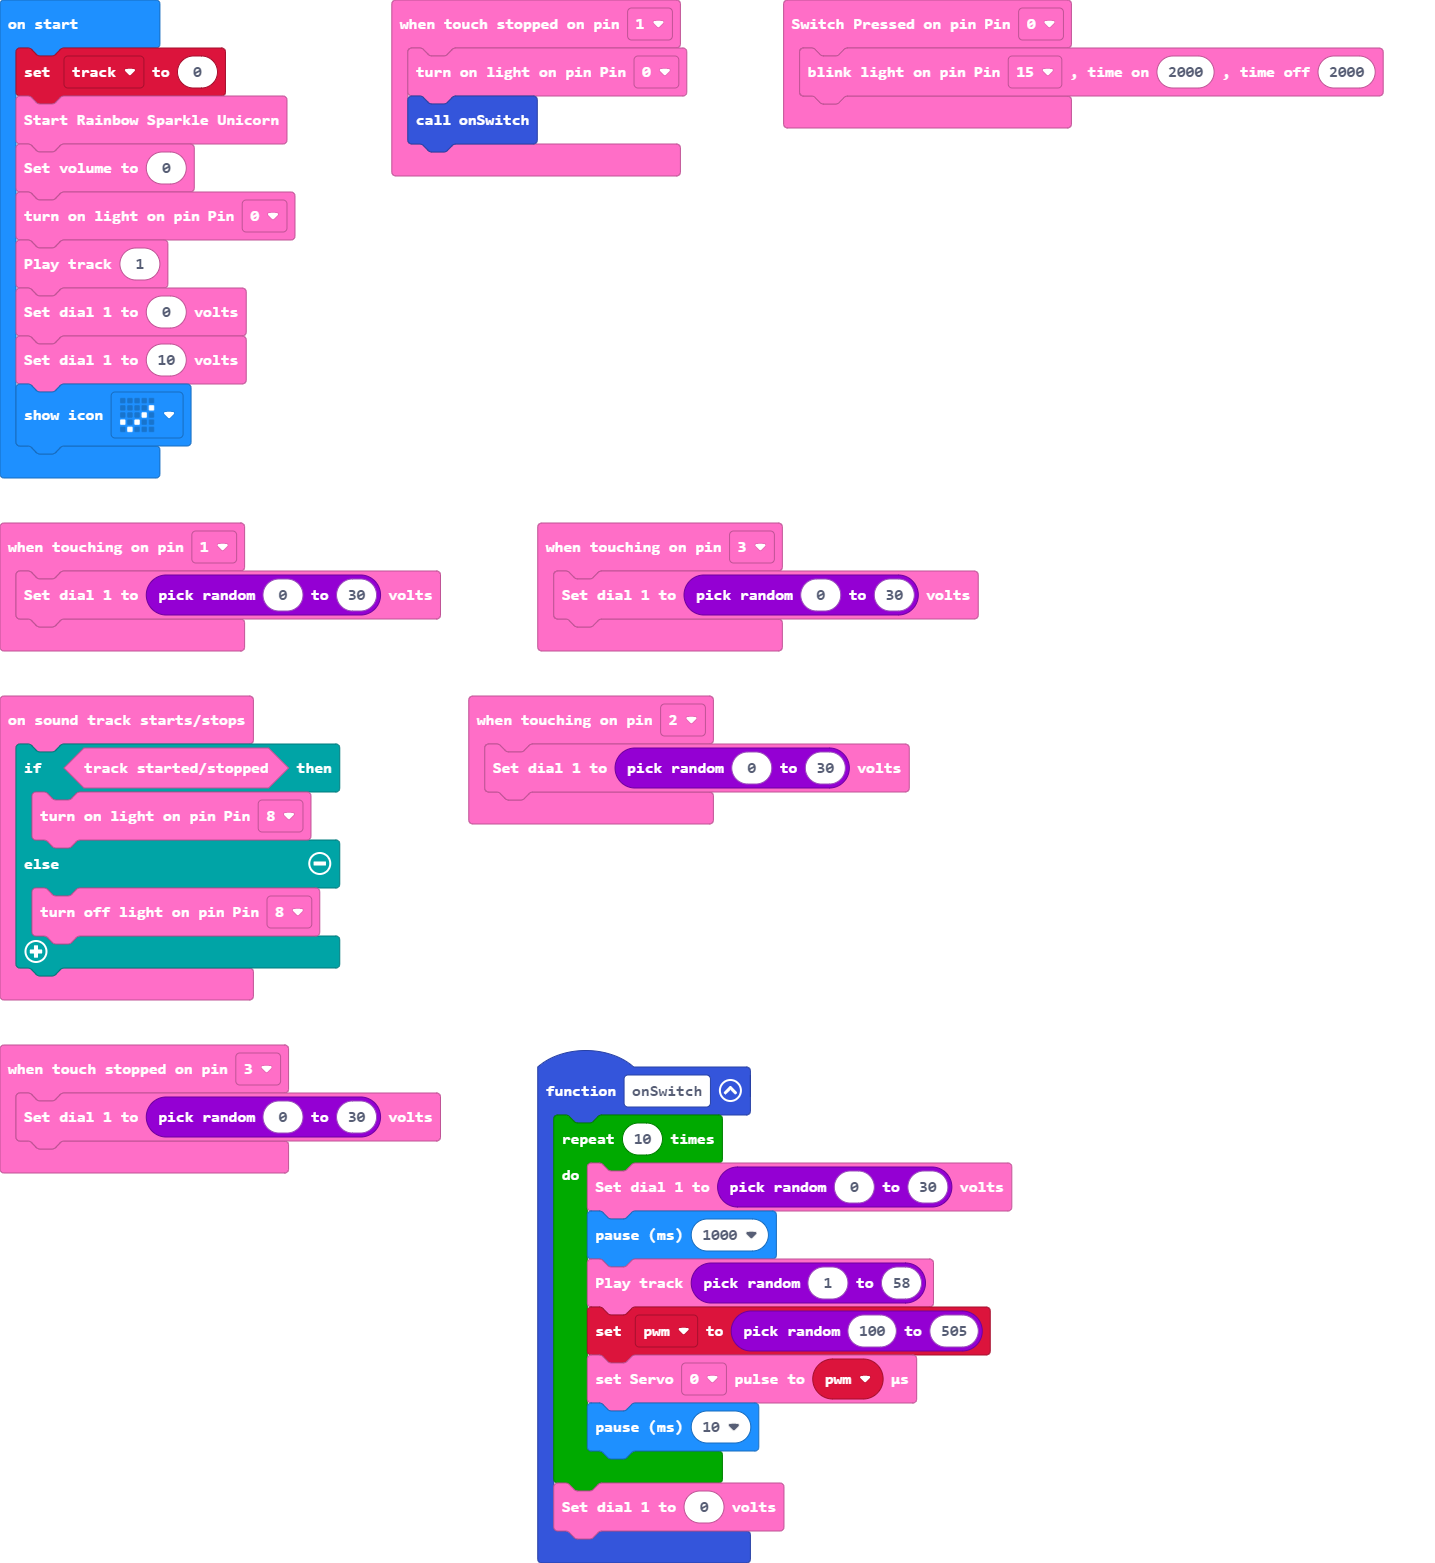
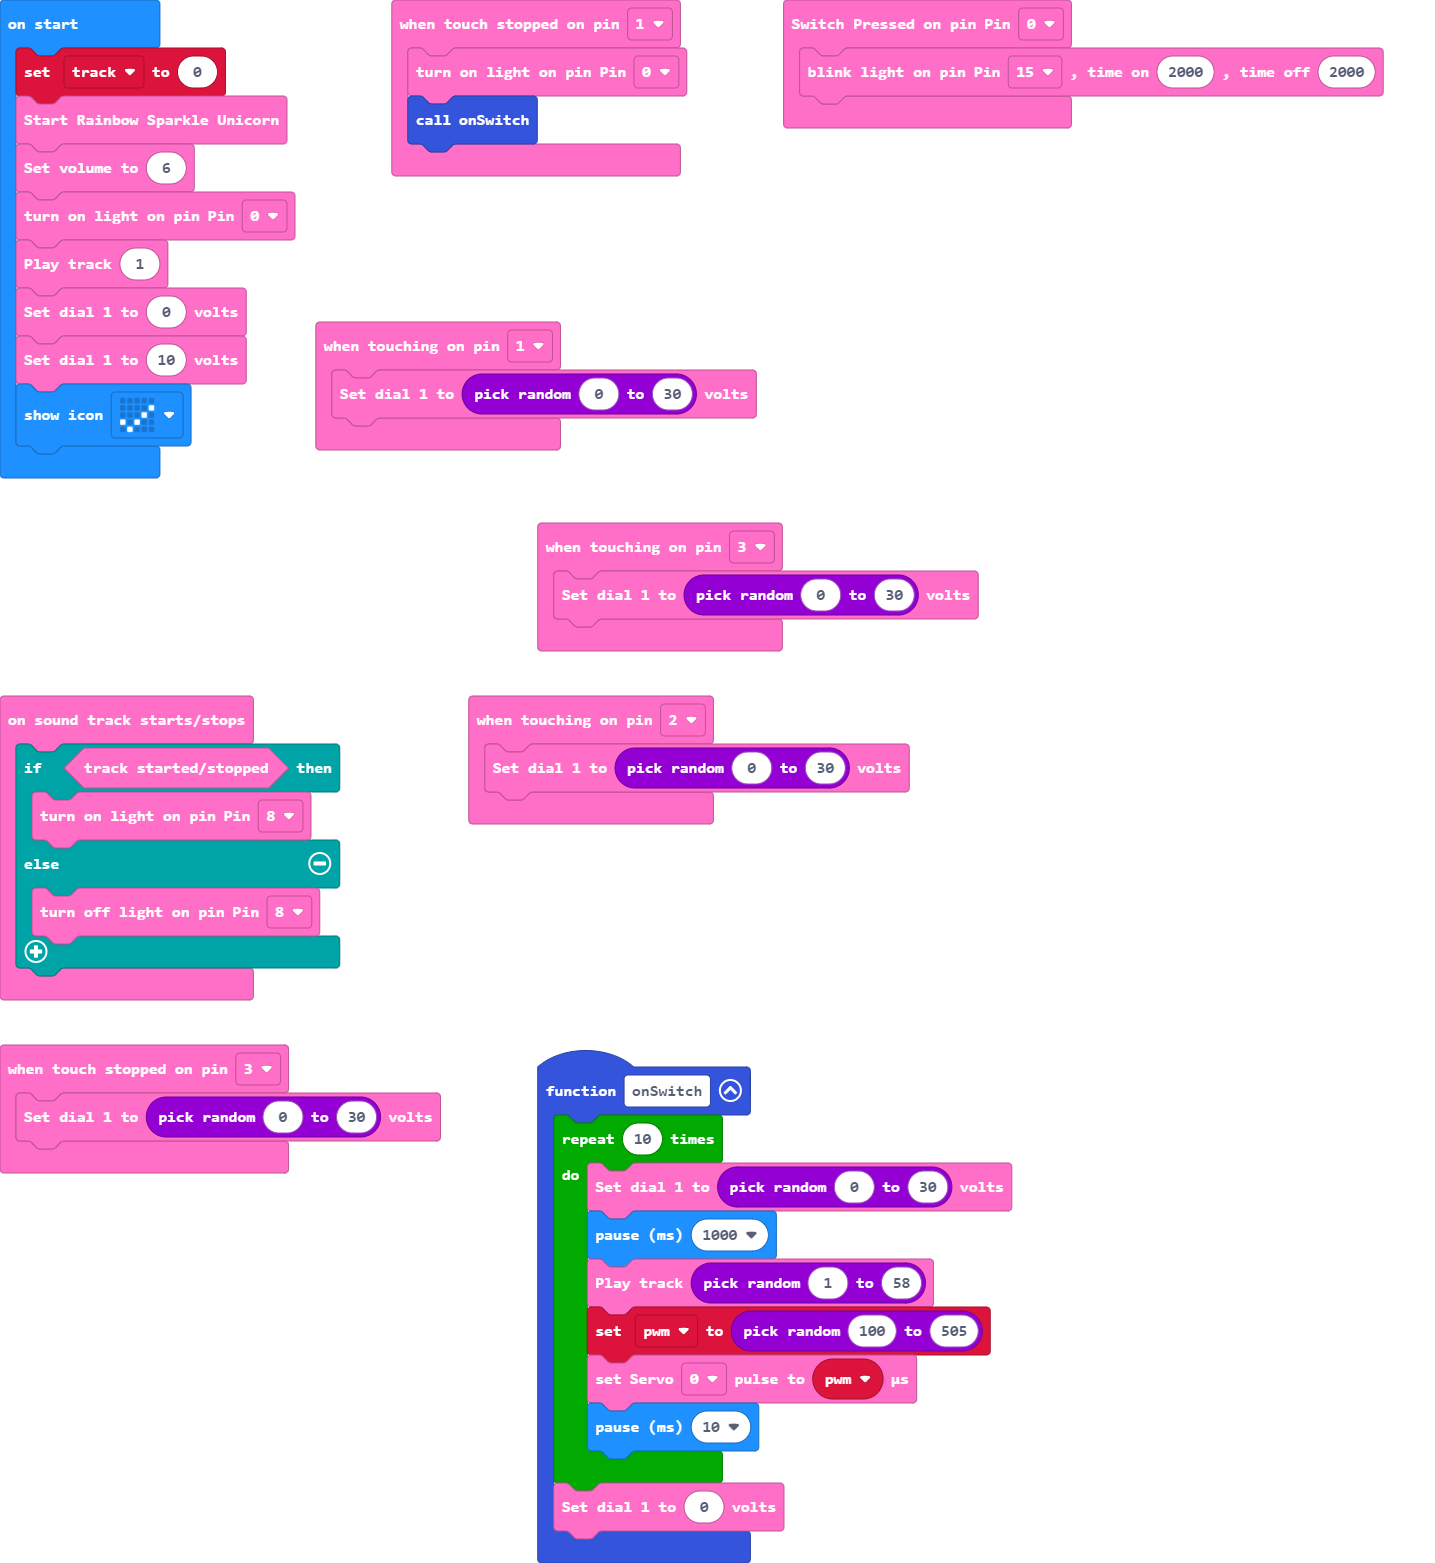
got i2c working for touch

Changed region(s): [[0.2146, 0.1843, 0.5519, 0.3071], [0.0, 0.3071, 0.3066, 0.4299]]

diff --git a/i2c.ts b/i2c.ts
@@ -1,18 +1,13 @@
 namespace RainbowSparkleUnicorn {
 
-let currentRecievedMessage = "";
-let ESP32_I2C_ADDR = 4;
-
-//let DELAY = 150
-
-pins.digitalWritePin(DigitalPin.P8, 0)
+    let currentRecievedMessage = "";
+    let ESP32_I2C_ADDR = 4;
 
    export function sendMessage(message: string): void {
 
         pins.digitalWritePin(DigitalPin.P8, 1)
         basic.pause(1)
-//let asr_txt = ""
-       // asr_txt = message
+
         let num = 0;
         num = message.length
         let buf2 = pins.createBuffer(num+4);
@@ -73,6 +68,8 @@ pins.digitalWritePin(DigitalPin.P8, 0)
         a1 = i2cBuffer[startIndex];
         let contentLength = i2cBuffer[startIndex+1]-4;
 
+        //serial.writeValue("contentLength", contentLength);
+
         if (contentLength > 0){
 
         currentRecievedMessage = ""
@@ -87,20 +84,23 @@ pins.digitalWritePin(DigitalPin.P8, 0)
 
             currentRecievedMessage = currentRecievedMessage.trim();
 
+        //serial.writeLine(currentRecievedMessage);
+
+        //serial.writeValue("length", currentRecievedMessage.length );
+
+
         if (currentRecievedMessage.length > 0){
-            control.raiseEvent(RAINBOW_SPARKLE_UNICORN_I2C_EVENT, currentRecievedMessage.length);
+            parseRecievedMessage(currentRecievedMessage);
+            //control.raiseEvent(RAINBOW_SPARKLE_UNICORN_I2C_EVENT, currentRecievedMessage.length);
         }}
     }
 
      basic.forever(() => {
         while (true) {
-            if (initialised == true){
-                led.toggle(0, 0)
-
+            if (initialised == true)            
+            {
                 sendMessage("00," + input.runningTime())
                 basic.pause(50)
-                
-                led.toggle(0, 0)
             }
         }
     })
@@ -128,8 +128,12 @@ pins.digitalWritePin(DigitalPin.P8, 0)
 
     control.onEvent(RAINBOW_SPARKLE_UNICORN_I2C_EVENT, EventBusValue.MICROBIT_EVT_ANY, function () {
 
-       // serial.writeLine(msg);
-        parseRecievedMessage(currentRecievedMessage);
+        let msg = currentRecievedMessage;
+
+        serial.writeLine(msg);
+
+        parseRecievedMessage(msg);
+
         led.toggle(0, 0);
     })
 

diff --git a/ns.ts b/ns.ts
@@ -9,6 +9,9 @@ namespace RainbowSparkleUnicorn {
     //% block="Start Rainbow Sparkle Unicorn"
     export function start(): void {
 
+        pins.digitalWritePin(DigitalPin.P8, 0);
+
+        initialised = true;
         basic.pause(50);
 
         RainbowSparkleUnicorn.sendMessage("STARTING");
@@ -20,9 +23,8 @@ namespace RainbowSparkleUnicorn {
         
         //RainbowSparkleUnicorn.setVolume(0);        
 
-        //basic.showIcon(IconNames.Heart)
+        basic.showIcon(IconNames.Giraffe)
 
-        initialised = true;
     }
 
 

diff --git a/main.ts b/main.ts
@@ -38,7 +38,7 @@ RainbowSparkleUnicorn.onBusyChange(function () {
 let pwm = 0
 let track = 0
 RainbowSparkleUnicorn.start()
-RainbowSparkleUnicorn.setVolume(0)
+RainbowSparkleUnicorn.setVolume(6)
 RainbowSparkleUnicorn.turnOn(Blinkable.Blinkable0)
 RainbowSparkleUnicorn.playTrack(1)
 RainbowSparkleUnicorn.dial1(0)

diff --git a/routing.ts b/routing.ts
@@ -32,7 +32,6 @@ namespace RainbowSparkleUnicorn {
 
                 control.raiseEvent(RAINBOW_SPARKLE_UNICORN_TOUCH_SENSOR_RELEASED, pin)
             }
-
             else if (message.indexOf("C1") == 0) {
             const ADC = parseInt(message.split(",")[1]);
             
